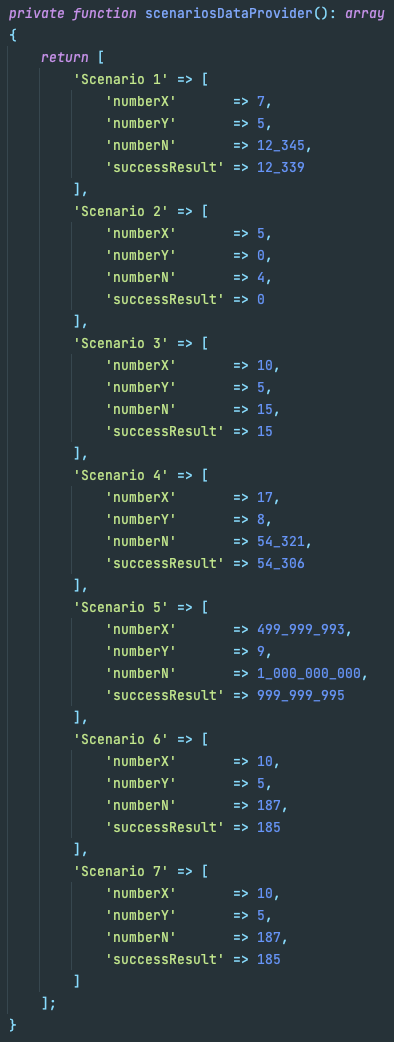
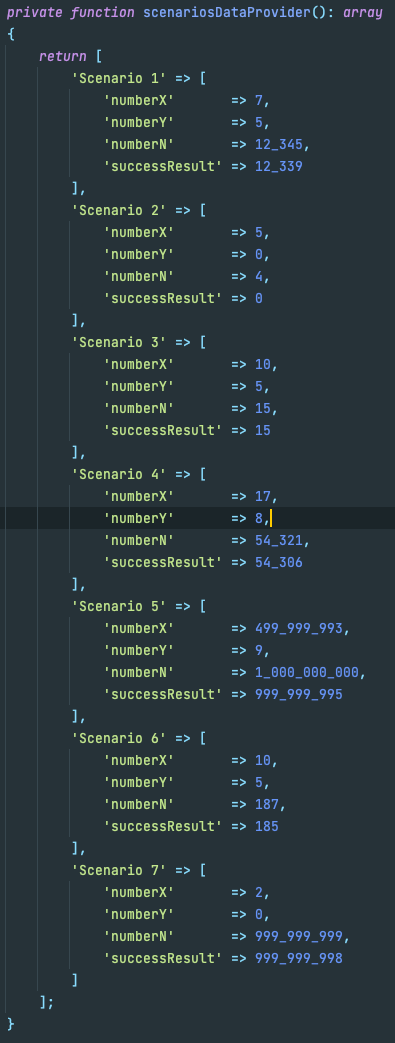
test: add last scenario

diff --git a/tests/Unit/app/UseCases/LargePossibleValueUseCaseTest.php b/tests/Unit/app/UseCases/LargePossibleValueUseCaseTest.php
@@ -136,10 +136,10 @@ class LargePossibleValueUseCaseTest extends TestCase
                 'successResult' => 185
             ],
             'Scenario 7' => [
-                'numberX'       => 10,
-                'numberY'       => 5,
-                'numberN'       => 187,
-                'successResult' => 185
+                'numberX'       => 2,
+                'numberY'       => 0,
+                'numberN'       => 999_999_999,
+                'successResult' => 999_999_998
             ]
         ];
     }
